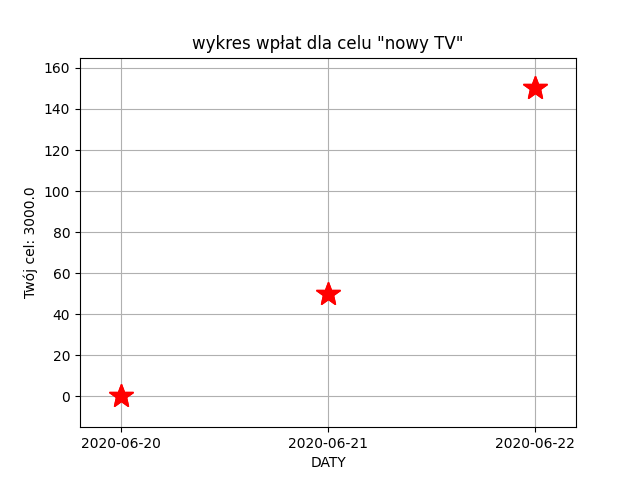
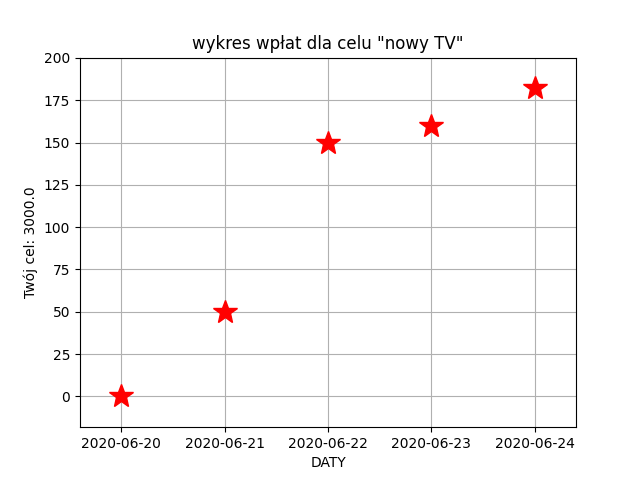
changes

diff --git a/budget_app/templates/credit-payments.html b/budget_app/templates/credit-payments.html
@@ -1,5 +1,5 @@
 {% extends "base.html" %}
-
+{% load static %}
 {% block content %}
 
     <br>
@@ -14,9 +14,15 @@ Jaką kwotą chcesz nadpłacić kredyt {{ credits_objects.name }}?
        </form>
 
   <br><br>
-    <a href="{% url 'credit-mistake' %}">w razie pomyłki kliknij tu</a>
+    <a href="{% url 'credit-mistake' %}">- - - w razie pomyłki kliknij tu - - -</a>
 <br><br>
-tu będzie wykres
+    {% if credits_objects.id == 7 %}
+    <img src="{% static 'wykres-kredyt-1.png' %}" alt="Not found" ><br>
+{% endif %}
+    {% if credits_objects.id == 10 %}
+    <img src="{% static 'wykres-kredyt-2.png' %}" alt="Not found" ><br>
+{% endif %}
+
 
 {% endblock %}
 

diff --git a/budget_app/templates/saving-collected.html b/budget_app/templates/saving-collected.html
@@ -11,7 +11,7 @@
         <input type="number" step="any" name="congrats">
         <input type="number"  name="zlap_z_templ" value="{{ zlapany.id }}" hidden>
                 <input type="submit" value="send">
-
+        </form>
 
 
 

diff --git a/budget_app/views.py b/budget_app/views.py
@@ -320,6 +320,56 @@ def wykres_innego_typu():
 
 
 
+def wykres_credit1():
+    x_cr1 = []
+    y_cr1 = []
+    credit1 = Credits.objects.get(id=7)
+    payments_for_cr1 = RepaymentDay.objects.all().filter(repayment_credits_id=credit1.id).order_by('repayment_date')
+    obj_cr1_name = credit1.name
+    for el in payments_for_cr1:
+        new_value = el.repayment_value
+        y_cr1.append(new_value)
+        new_date = str(el.repayment_date)
+        x_cr1.append(new_date)
+    plt.figure(9)
+    plt.title(f'wykres wpłat dla celu "{obj_cr1_name}"')
+    plt.xlabel('DATY')
+    plt.ylabel('KWOTY')
+    plt.grid(True)
+    plt.margins(0.1)
+    plt.plot(x_cr1, y_cr1, linewidth=5.0)
+    # plt.tick_params(axis='x', rotation=290)
+    savefig('static/wykres-kredyt-1.png')
+
+
+
+
+def wykres_credit2():
+    x_cr2 = []
+    y_cr2 = []
+    credit2 = Credits.objects.get(id=10)
+    payments_for_cr2 = RepaymentDay.objects.all().filter(repayment_credits_id=credit2.id).order_by('repayment_date')
+    obj_cr2_name = credit2.name
+    for el in payments_for_cr2:
+        new_value = el.repayment_value
+        y_cr2.append(new_value)
+        new_date = str(el.repayment_date)
+        x_cr2.append(new_date)
+    plt.figure(10)
+    plt.title(f'wykres wpłat dla celu "{obj_cr2_name}"')
+    plt.xlabel('DATY')
+    plt.ylabel('KWOTY')
+    plt.margins(0.1)
+    plt.bar(x_cr2, y_cr2)
+    # plt.tick_params(axis='x', rotation=290)
+    savefig('static/wykres-kredyt-2.png')
+
+
+
+
+
+
+
 class IndexView(View):
     def get(self, request):
 
@@ -706,21 +756,20 @@ class AlreadyCollectedView(View):
                                                         "collected": collected,
                                                         "all_piggy_banks": all_piggy_banks,
                                                              })
-        except:
-            moj_x_nowy=request.session.get("chosen_id"),
-            # for e in moj_x:
-            #     moj_x_nowy = e
+        except Exception:
+            moj_x=request.session.get("chosen_id"),
+            for e in moj_x:
+                moj_x_nowy = e
             congrats = request.POST.get('congrats')
             congrats2 = float(congrats)
-            # moj_obiekt=PaymentDay.objects.filter(payment_piggybanks_id=moj_x_nowy).last()
-            moj_obiekt=PaymentDay.objects.filter(payment_piggybanks_id=moj_x_nowy).last()#powinnobyc? analiza
+            moj_obiekt=PaymentDay.objects.filter(payment_piggybanks_id=moj_x_nowy).last()
 
             try:
                 # PaymentDay.objects.get(payment_piggybanks_id=moj_x_nowy, date_of=date.today())
                 dzisiejszy_stary=PaymentDay.objects.get(payment_piggybanks_id=moj_x_nowy, date_of=date.today())
                 return redirect('saving-mistake')
 
-            except:
+            except Exception:
                 #popr!
                 dzisiejszy_nowy=PaymentDay.objects.create(payment_piggybanks_id=moj_x_nowy, date_of=date.today(), payment_collected_id=moj_obiekt.payment_collected_id, value_of=moj_obiekt.value_of)
                 dzisiejszy_nowy.payment_piggybanks_id=moj_x_nowy
@@ -917,6 +966,8 @@ class DeleteCredit(DeleteView):
 
 class CreditPayments(View):
     def get(self, request, id):
+        wykres_credit1()
+        wykres_credit2()
         credits_objects=Credits.objects.get(id=id)
         return render(request, 'credit-payments.html', {"credits_objects": credits_objects})
 
@@ -927,21 +978,21 @@ class CreditPayments(View):
         credit_obj = Credits.objects.get(id=id)
 
         last_payments = RepaymentDay.objects.filter(repayment_credits_id=credit_obj.id).last()
-        # try:
-        #     paid = RepaymentDay.objects.get(repayment_credits_id=id, repayment_date=date.today())
-        #     return redirect('credit-mistake')
-        #
-        # except:
-        new_paym = RepaymentDay.objects.create(repayment_credits_id=id,
-                                               repayment_date=date.today(),
-                                               repayment_collected_id=last_payments.repayment_collected_id,
-                                               repayment_value=amount2)
-        increasing = Repayment.objects.get(id=new_paym.repayment_collected_id)
-        increasing.collected_money += amount2
-        increasing.save()
-        new_paym.repayment_value = amount2
-        new_paym.save()
-        return render(request, 'credit-payments.html', {"credits_objects": credits_objects})
+        try:
+            paid = RepaymentDay.objects.get(repayment_credits_id=id, repayment_date=date.today())
+            return redirect('credit-mistake')
+
+        except Exception:
+            new_paym = RepaymentDay.objects.create(repayment_credits_id=id,
+                                                   repayment_date=date.today(),
+                                                   repayment_collected_id=last_payments.repayment_collected_id,
+                                                   repayment_value=amount2)
+            increasing = Repayment.objects.get(id=new_paym.repayment_collected_id)
+            increasing.collected_money += amount2
+            increasing.save()
+            new_paym.repayment_value = amount2
+            new_paym.save()
+            return render(request, 'credit-payments.html', {"credits_objects": credits_objects})
 
 
 class CreditMistake(View):
@@ -966,3 +1017,6 @@ class CreditMistake(View):
         last_to_change.collected_money += correct_value_float
         last_to_change.save()
         return redirect('credits')
+
+
+
